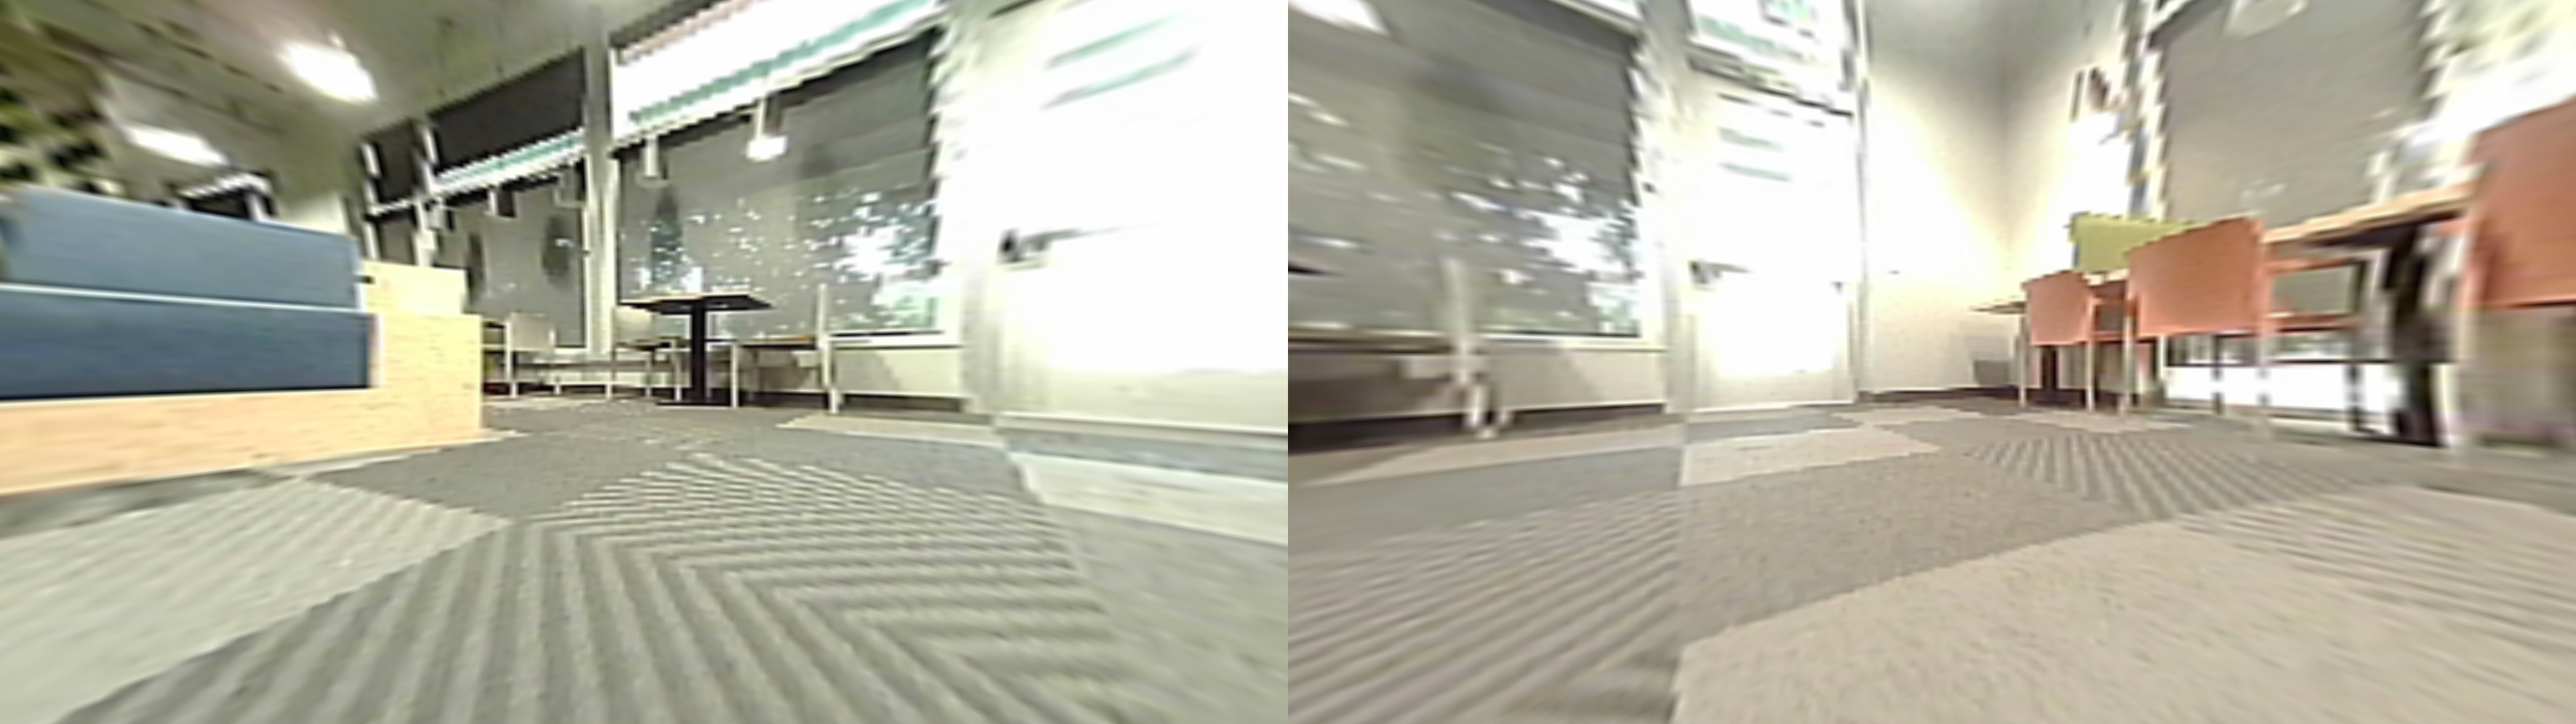
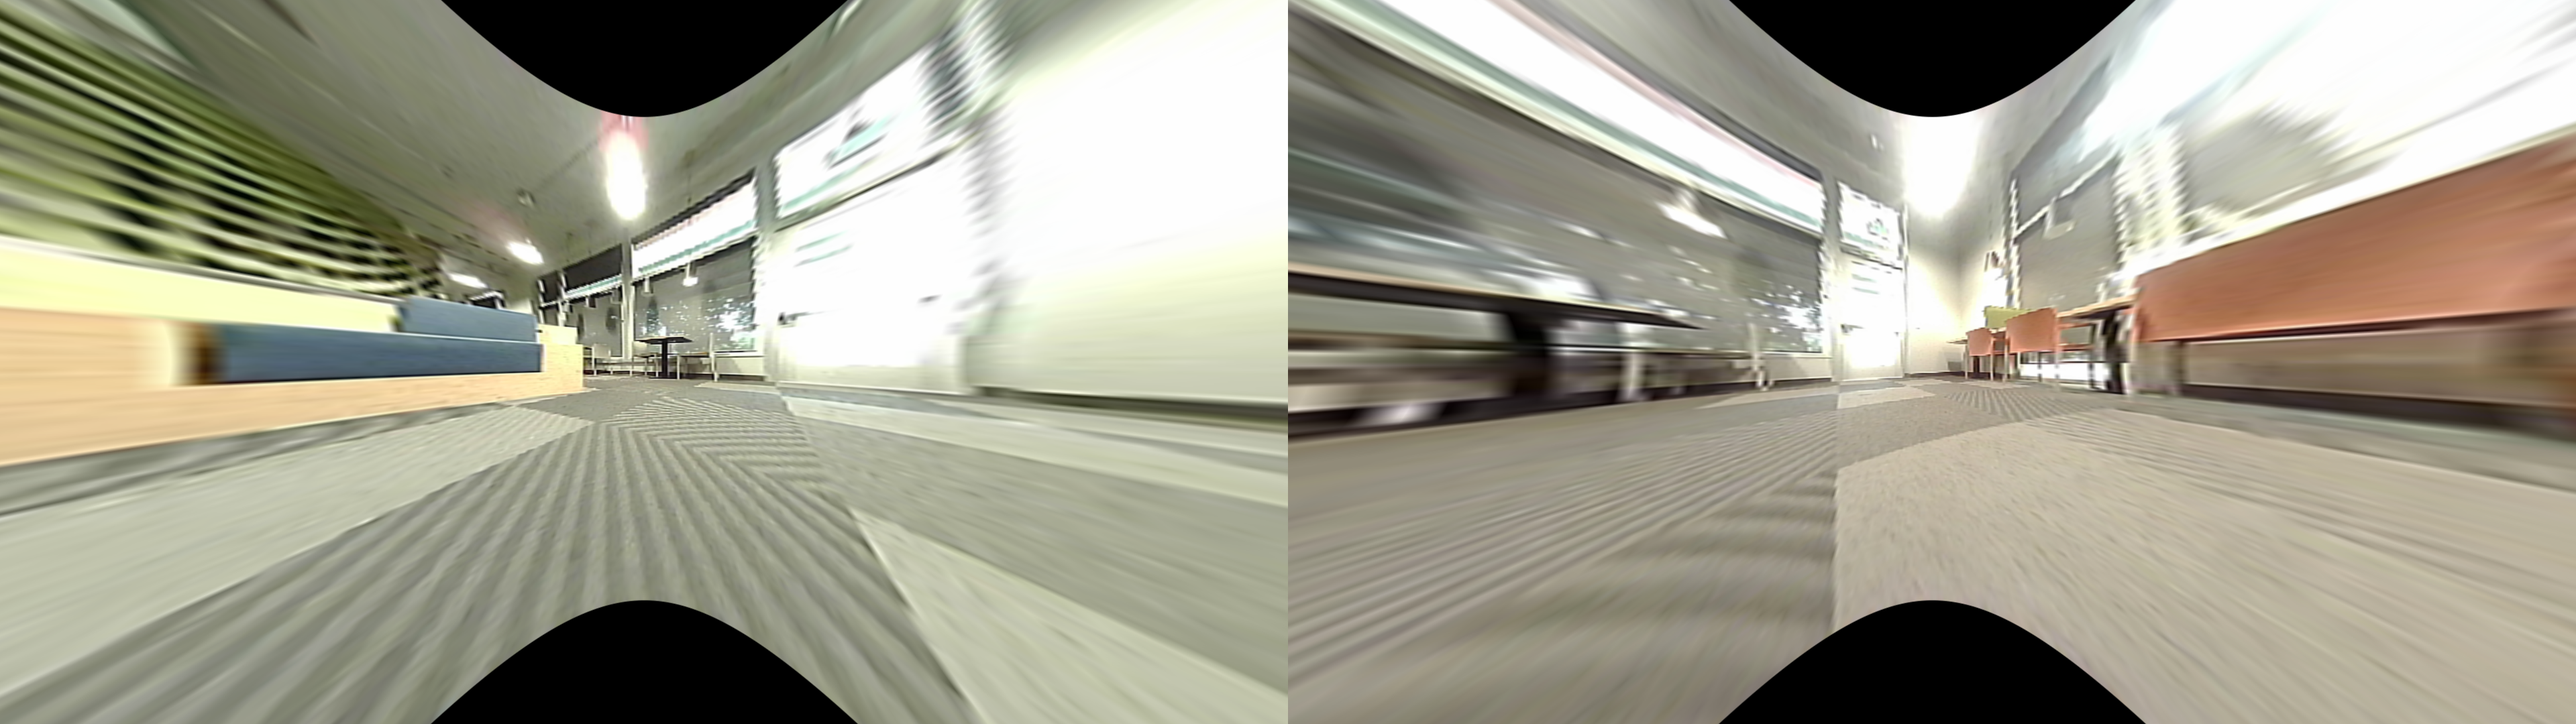
commit all files

diff --git a/test2.py b/test2.py
@@ -1,0 +1,53 @@
+# You should replace these 3 lines with the output in calibration step
+import numpy as np
+import cv2
+import sys
+import json
+
+image_path = "image_from_dataset_right.png"
+calibration_file = "calibration_data.json"
+
+
+def load_calibration(calibration_file):
+    with open(calibration_file, "r") as f:
+        return json.load(f)
+
+
+calibration_data = load_calibration(calibration_file)
+
+# Measure from image
+DIM = cv2.imread(image_path).shape[:2][::-1]  # (width, height)
+K = np.array(calibration_data["K"])
+D = np.array(calibration_data["D"])
+
+
+def undistort(img_path, balance=0.0, dim2=None, dim3=None):
+    img = cv2.imread(img_path)
+    dim1 = img.shape[:2][::-1]  # dim1 is the dimension of input image to un-distort
+    assert (
+        dim1[0] / dim1[1] == DIM[0] / DIM[1]
+    ), "Image to undistort needs to have same aspect ratio as the ones used in calibration"
+    if not dim2:
+        dim2 = dim1
+    if not dim3:
+        dim3 = dim1
+    scaled_K = K * dim1[0] / DIM[0]  # The values of K is to scale with image dimension.
+    scaled_K[2][2] = 1.0  # Except that K[2][2] is always 1.0
+    # This is how scaled_K, dim2 and balance are used to determine the final K used to un-distort image. OpenCV document failed to make this clear!
+    new_K = cv2.fisheye.estimateNewCameraMatrixForUndistortRectify(
+        scaled_K, D, dim2, np.eye(3), balance=balance
+    )
+    map1, map2 = cv2.fisheye.initUndistortRectifyMap(
+        scaled_K, D, np.eye(3), new_K, dim3, cv2.CV_16SC2
+    )
+    undistorted_img = cv2.remap(
+        img, map1, map2, interpolation=cv2.INTER_LINEAR, borderMode=cv2.BORDER_CONSTANT
+    )
+    cv2.imshow("undistorted", undistorted_img)
+    cv2.waitKey(0)
+    cv2.destroyAllWindows()
+
+
+if __name__ == "__main__":
+    for p in sys.argv[1:]:
+        undistort(p)

diff --git a/test.py b/test.py
@@ -140,12 +140,15 @@ class ImageUndistorter:
         mtx = np.array(self.calibration_data["K"])
         dist = np.array(self.calibration_data["D"])
 
-        # Calculate the new optimal camera matrix for undistortion
+        # Use the original calibration matrix or slightly adjust if necessary
         new_K = mtx.copy()
-        # Adjust the new camera matrix to be based on the width and height of the resized image
-        new_K[0, 0] *= w / mtx[0, 2] / 2
-        new_K[1, 1] *= h / mtx[1, 2] / 2
-        new_K[0, 2] = w / 2.0
+
+        new_K[0, 0] = mtx[0, 0] * 0.375
+        new_K[1, 1] = mtx[1, 1] * 0.375
+
+        new_K[0, 2] = (
+            w / 2.0
+        )  # Adjust the principal point to the center of the resized image
         new_K[1, 2] = h / 2.0
 
         # Initialize the undistortion transformation map
@@ -243,8 +246,8 @@ def run(calibrate=True, undistort=True, output=False):
 
 def main():
     # run(calibrate=True, undistort=True)
-    # run(calibrate=False, undistort=True, output=False)
-    run(calibrate=False, undistort=False, output=True)
+    run(calibrate=False, undistort=True, output=True)
+    # run(calibrate=False, undistort=False, output=True)
 
 
 if __name__ == "__main__":
